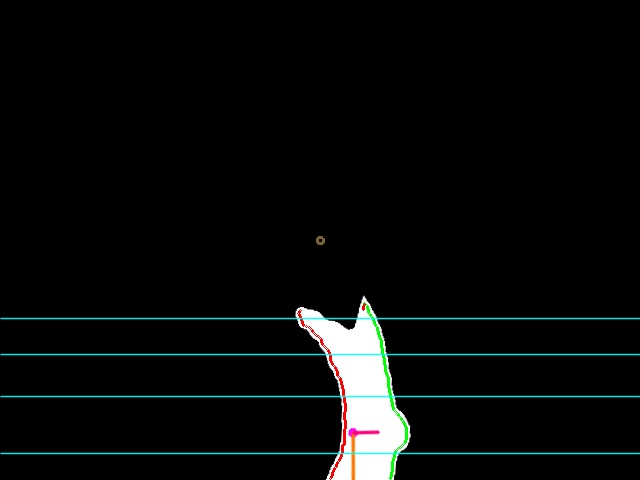
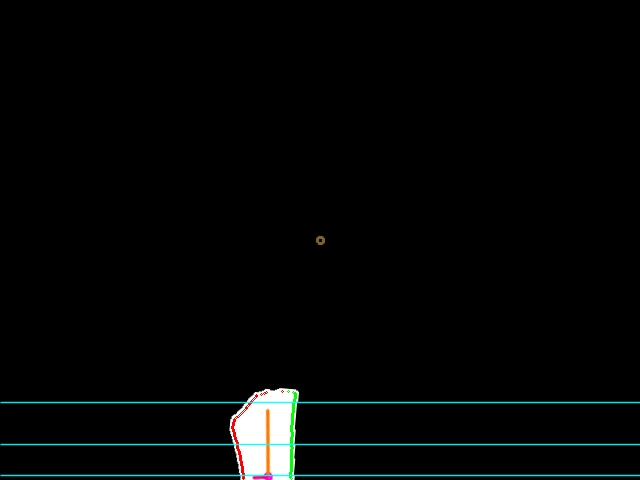
demo_every_thing

Changed region(s): [[0.0, 0.625, 1.0, 1.0]]

diff --git a/demo_everything.py b/demo_everything.py
@@ -6,8 +6,8 @@ def demo_handsegment_method():
     full_mask = cv2.resize(full_mask, (640,480))
     from utils import hand_mask_segmentation_choose_max_roi
     from wrist_line import detectHandByWristCrop
-    # hand_mask, forearm_mask = hand_mask_segmentation_choose_max_roi(full_mask, 1.3)
-    hand_mask, forearm_mask = detectHandByWristCrop(full_mask)
+    hand_mask, forearm_mask = hand_mask_segmentation_choose_max_roi(full_mask, 1.3)
+    # hand_mask, forearm_mask = detectHandByWristCrop(full_mask)
     
 
     to_show = np.zeros((full_mask.shape[0], full_mask.shape[1], 3), dtype=np.uint8)
@@ -160,12 +160,12 @@ if __name__ == "__main__":
     clf = PalmROIDetectionSVM(image_size = (640,480), dimension_extract = 30, min_size_hand = 15)
     clf.dimension_extract = 30
     clf.load_model('models/left_30.pkl')
-
+    clf.test_images('data_left_hand')
     # for img_name in os.listdir('bad_case_demo/org/'):
     #     demo_images(img_name)
 
     # evaluate_segment(clf)
 
     # train_and_evalue_model(clf)
-
+    # demo_images('4_024.png')
     # demo_handsegment_method()

diff --git a/palm_roi_detection_SVM.py b/palm_roi_detection_SVM.py
@@ -386,10 +386,13 @@ class PalmROIDetectionSVM:
                 to_show[forarm_mask > 127] = (255,255,0)
                 cv2.imshow('forarm_mask', forarm_mask)
             cv2.imshow('detect', to_show)
-            
+            cv2.imshow('orginal mask', img)
             print('FPS: ', 1/(time.time()-t))
-            if cv2.waitKey(1) == 27:
+            key = cv2.waitKey(1)
+            if key == 27:
                 break
+            if key == ord('p'):
+                cv2.waitKey(0)
 
     def test_one_image(self, image_path, aplha = 1.3):
         img = cv2.imread(image_path, 0)
@@ -442,7 +445,8 @@ def label_data(clf):
 
 
 if __name__ == "__main__":
-    pass
+    clf = PalmROIDetectionSVM()
+    clf.prepare_data_set('data_left_hand/', 'test.txt')
     
     
 
